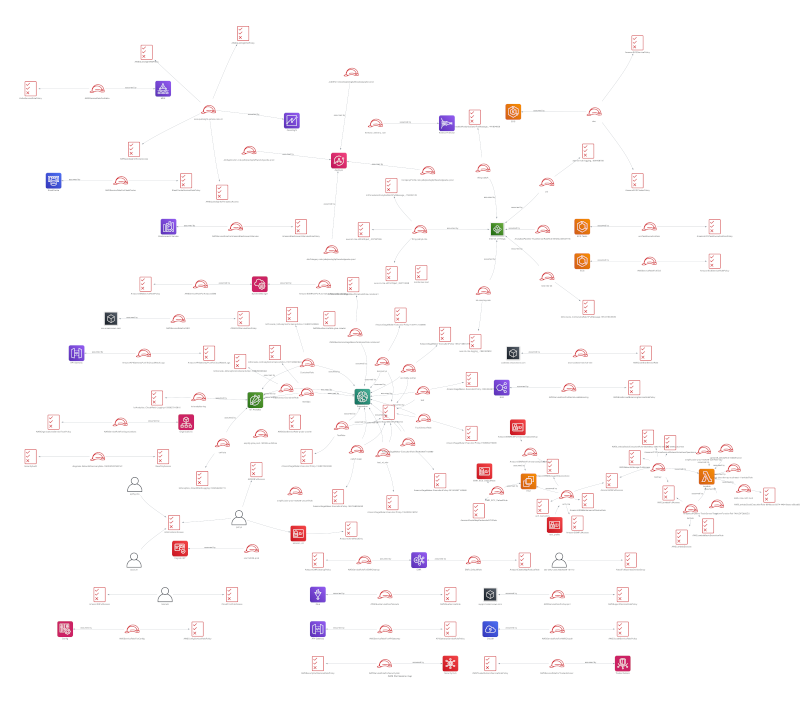
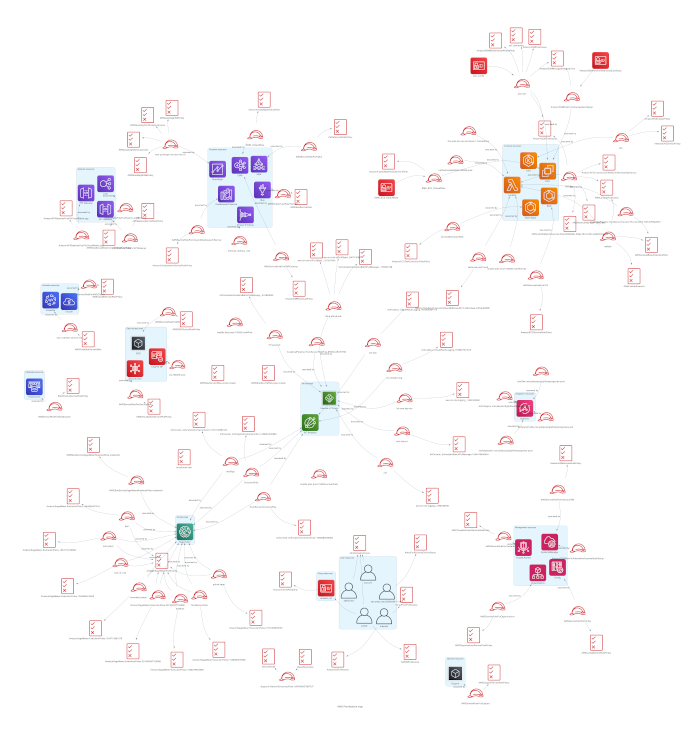
added principal grouping in AWS policy diagram

diff --git a/provider/policy/resource/security.py b/provider/policy/resource/security.py
@@ -792,6 +792,21 @@ class Principals:
             "name": "CloudFront Logger",
             "group": "network",
         },
+        "connect.amazonaws.com": {
+            "type": "aws_connect",
+            "name": "Connect",
+            "group": "engagement",
+        },
+        "config-conforms.amazonaws.com": {
+            "type": "aws_config",
+            "name": "Config Conforms",
+            "group": "management",
+        },
+        "iotsitewise.amazonaws.com": {
+            "type": "aws_iotsitewise",
+            "name": "IoT SiteWise",
+            "group": "iot",
+        },
     }
 
 
@@ -950,23 +965,22 @@ class IamRole(ResourceProvider):
             if not isinstance(assuming_services, list):
                 assuming_services = [assuming_services]
             for assuming_service in assuming_services:
-                principal_found: Resource = None
                 if assuming_service in Principals.principals:
+                    principal = Principals.principals[assuming_service]
                     principal_found = Resource(
                         digest=ResourceDigest(
-                            id=assuming_service,
-                            type=Principals.principals[assuming_service]["type"],
+                            id=assuming_service, type=principal["type"],
                         ),
-                        name=Principals.principals[assuming_service]["name"],
+                        name=principal["name"],
                         details="",
-                        group="",
+                        group=principal["group"],
                     )
                 else:
                     principal_found = Resource(
                         digest=ResourceDigest(id=assuming_service, type="aws_general"),
                         name=assuming_service,
                         details="",
-                        group="",
+                        group="general",
                     )
                 if principal_found is not None:
                     resources_found.append(principal_found)

diff --git a/provider/policy/command.py b/provider/policy/command.py
@@ -20,7 +20,7 @@ class Policy(BaseCommand):
             command_runner = CommandRunner()
             if self.diagram:
                 diagram = BaseDiagram(
-                    "AWS Permissions map", region + "_account_policies"
+                    "AWS Permissions map", region + "_account_policies", engine="fdp"
                 )
             else:
                 diagram = NoDiagram()

diff --git a/shared/diagram.py b/shared/diagram.py
@@ -198,6 +198,8 @@ class Mapsources:
         "aws_xray": "XRay",
         "aws_spotfleet": "General",
         "aws_sqs": "SQS",
+        "aws_connect": "Connect",
+        "aws_iotsitewise": "IotSitewise",
     }
 
 
